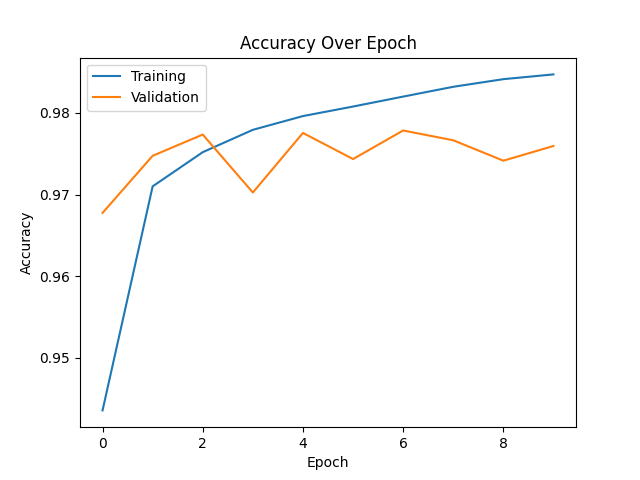
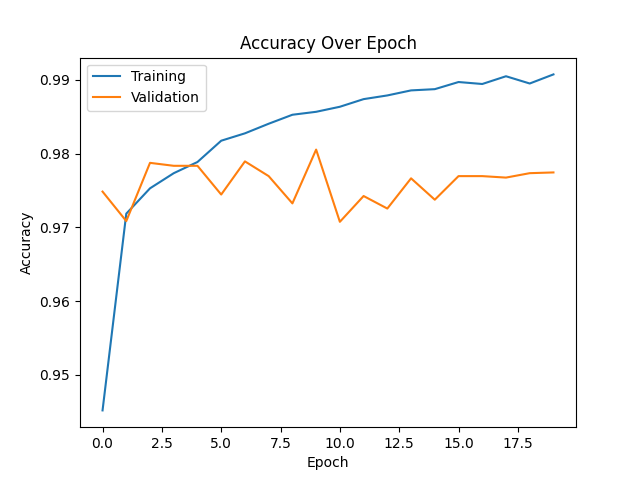
PyTorch model1 results

diff --git a/lab4/lab4_1_pytorch.py b/lab4/lab4_1_pytorch.py
@@ -7,7 +7,7 @@ from torch import nn
 from torch.utils.data import DataLoader
 from torchvision import datasets, transforms
 
-MODEL = 'model2'
+MODEL = 'model1'
 
 CLASSES = ['0', '1', '2', '3', '4', '5', '6', '7', '8', '9']
 NUM_CLASSES = len(CLASSES)
@@ -15,90 +15,6 @@ NUM_CHANNELS = 1
 
 BATCH_SIZE = 32
 NUM_EPOCHS = 20
-
-'''
-# First Convolution Layers: Array of tuples (in_channels, out_channels, kernel_size, stride, padding).
-CONVS = [(CHANNELS, 32, 3, 1, 'valid')] # Model 1
-# CONVS = [(CHANNELS, 64, 3, 1, 'valid'), (64, 32, 3, 1, 'valid')] # Model 2
-
-# Max Pooling Layers: Array of tuple (kernel_size, stride, padding).
-MAXPOOLS = [] # Model 1
-# MAXPOOLS = [(2, 1, 0)] # Model 2
-
-# Second Convolution Layers: Array of tuples (in_channels, out_channels, kernel_size, stride, padding).
-CONVS2 = [] # Model 1
-# CONVS2 = [(32, 16, 3, 1, 'valid')] # Model 2
-
-# Linear Layers: Array of tuples (in_features, out_features, activation_function).
-LINEARS = [(21632, CLASSES, 'softmax')] # Model 1
-# LINEARS = [(7056, CLASSES, 'softmax')] # Model 2
-
-
-class CNN(nn.Module):
-    def __init__(self):
-        super(CNN, self).__init__()
-
-        # Define the first convolution layers.
-        self.convs = nn.ParameterList()
-        for in_channels, out_channels, kernel_size, stride, padding in CONVS:
-            self.convs.append(nn.Conv2d(in_channels, out_channels, kernel_size, stride, padding))
-
-        # Define the maximum pooling layers.
-        self.maxpools = nn.ParameterList()
-        for kernel_size, stride, padding in MAXPOOLS:
-            self.maxpools.append(nn.MaxPool2d(kernel_size, stride, padding))
-
-        # Define the second convolution layers.
-        self.convs2 = nn.ParameterList()
-        for in_channels, out_channels, kernel_size, stride, padding in CONVS2:
-            self.convs2.append(nn.Conv2d(in_channels, out_channels, kernel_size, stride, padding))
-
-        # Define the flatten layer.
-        self.flatten = nn.Flatten()
-
-        # Define the linear layers.
-        self.linears = nn.ParameterList()
-        for in_features, out_features, act_fn in LINEARS:
-            self.linears.append(nn.Linear(in_features, out_features))
-
-        # Define the activation functions.
-        self.sigmoid = nn.Sigmoid()
-        self.relu = nn.ReLU()
-        self.tanh = nn.Tanh()
-        self.softmax = nn.Softmax(1)
-
-    def forward(self, x):
-        # Apply the first convolution layers.
-        for conv in self.convs:
-            x = conv(x)
-
-        # Apply the maximum pooling layers.
-        for maxpool in self.maxpools:
-            x = maxpool(x)
-
-        # Apply the second convolution layers.
-        for conv in self.convs2:
-            x = conv(x)
-
-        # Apply the flatten layer.
-        x = self.flatten(x)
-
-        # Apply the linear layers.
-        i = 0
-        for linear in self.linears:
-            if LINEARS[i][2] == 'sigmoid':
-                act_fn = self.sigmoid
-            if LINEARS[i][2] == 'relu':
-                act_fn = self.relu
-            if LINEARS[i][2] == 'tanh':
-                act_fn = self.tanh
-            if LINEARS[i][2] == 'softmax':
-                act_fn = self.softmax
-            x = act_fn(linear(x))
-            i += 1
-
-        return x
-'''
 
 
 class model1(nn.Module):

diff --git a/lab4/README.md b/lab4/README.md
@@ -96,9 +96,15 @@ The CNN model takes two times more time than the lab3.3 best model and provides 
 
 #### Model Summary
 
-| Batch Size | Filters | Kernel Size | Stride | Padding |  Loss  | Accuracy |  Time   |
-| :--------: | :-----: | :---------: | :----: | :-----: | :----: | :------: | :-----: |
-|     32     |   32    |      3      |   1    | 'valid' | 1.5289 |  93.21%  | 294.66s |
+|   ID   |  Loss  | Accuracy | Training Time |
+| :----: | :----: | :------: | :-----------: |
+| model1 | 0.2875 |  91.89%  |    101.84s    |
+
+**Architecture**
+
+- Convolution: 32, 3, 1, 'valid'.
+- Flatten.
+- Fully Connected: 10, 'softmax'.
 
 <br />
 
